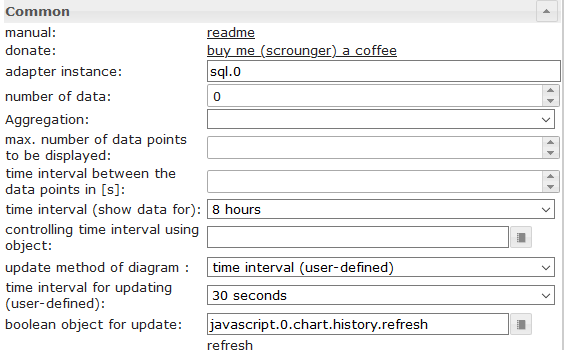
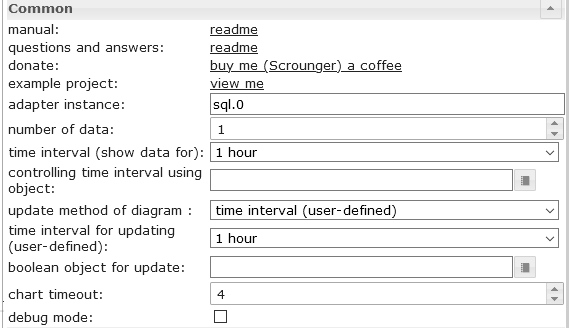
readme updated

Changed region(s): [[0.0, 0.0, 1.0, 1.0]]

diff --git a/README.md b/README.md
@@ -464,12 +464,33 @@ Settings that are not listed in the table below are self-explanatory.
     </thead>
     <tbody>
         <tr>
-            <td rowspan=6><img src="doc/en/media/line_hostory_chart_general.png"></td>
+            <td rowspan=5><img src="doc/en/media/line_hostory_chart_general.png"></td>
             <td>adapter instance</td>
             <td>Instance for the sql or history adapter</td>
         </tr>
         <tr>
-            <td>aggregation</td>
+            <td>controlling time interval using object</td>
+            <td>Id of a datapoint to change the time interval of the chart.<br><br>If the datapoint is from type 'string' it must contain <a href="https://github.com/Scrounger/ioBroker.vis-materialdesign/blob/235530e4e54346b5527333ca06ce596519954c67/widgets/materialdesign/js/materialdesign.chart.js#L802">one of the linked values</a><br>If the datapoint is from type 'number', it must contain the starting timestamp of the graph.<br><br>For example, you can use a button here to change the display of the chart during runtime</td>
+        </tr>
+        <tr>
+            <td>boolean object for update</td>
+            <td>Id of adatapoint to trigger a manual refresh of the chart.<br>For example, you can use a button here to refresh the chart during runtime</td>
+        </tr>
+        <tr>
+            <td>chart timeout</td>
+            <td>timeout for loading the chart data. If you get a timeout error message, increase this value</td>
+        </tr>
+        <tr>
+            <td>debug mode</td>
+            <td>if you have problems or errors, activate the debug mode and attach the console log (F12) data to the issue</td>
+        </tr>
+        <tr>
+            <td rowspan=5><img src="doc/en/media/line_hostory_chart_dataset.png"></td>
+            <td>Object Id</td>
+            <td>datapoint id with activated instance for the sql or history adapter</td>
+        </tr>
+        <tr>
+            <td>display method</td>
             <td><a href="https://www.iobroker.net/docu/index-195.htm?page_id=198&lang=en#Aggregation">link</a></td>
         </tr>
         <tr>
@@ -481,12 +502,8 @@ Settings that are not listed in the table below are self-explanatory.
             <td>Optional setting, overrides the 'count' setting.<br>Distance between the individual data points in seconds.<br>For example, if you want to display data points every minute, you have to enter 60 here</td>
         </tr>
         <tr>
-            <td>controlling time interval using object</td>
-            <td>Id of a datapoint to change the time interval of the chart.<br><br>If the datapoint is from type 'string' it must contain <a href="https://github.com/Scrounger/ioBroker.vis-materialdesign/blob/235530e4e54346b5527333ca06ce596519954c67/widgets/materialdesign/js/materialdesign.chart.js#L802">one of the linked values</a><br>If the datapoint is from type 'number', it must contain the starting timestamp of the graph.<br><br>For example, you can use a button here to change the display of the chart during runtime</td>
-        </tr>
-        <tr>
-            <td>boolean object for update</td>
-            <td>Id of adatapoint to trigger a manual refresh of the chart.<br>For example, you can use a button here to refresh the chart during runtime</td>
+            <td>data multiply with</td>
+            <td>Optional setting, multiply every datapoint with the given value</td>
         </tr>
         <tr>
             <td><img src="doc/en/media/line_hostory_chart_xAxis_layout.png"></td>
@@ -5430,6 +5447,7 @@ ical2CalendarWidget();
 ## Changelog
 
 ### __WORK IN PROGRESS__
+* (Scrounger): Line History Chart: Breaking Changes !!! aggregate (display) method for every dataset configurable, see documentation for detailed infos!
 
 ### 0.3.19 (2020-07-18)
 * (Scrounger): Icon Button Widget: background color option for lock icon added
